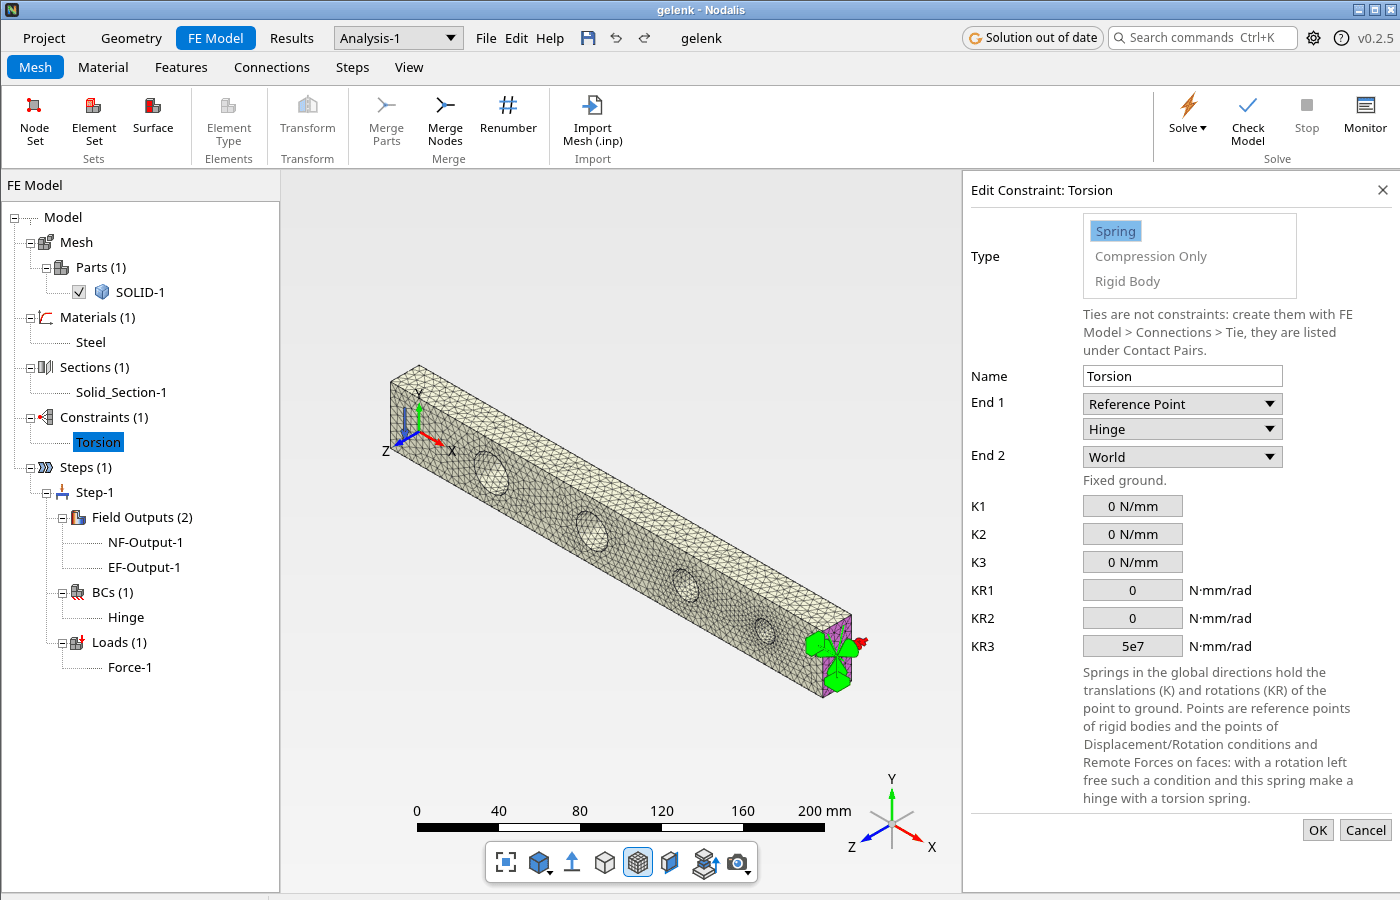
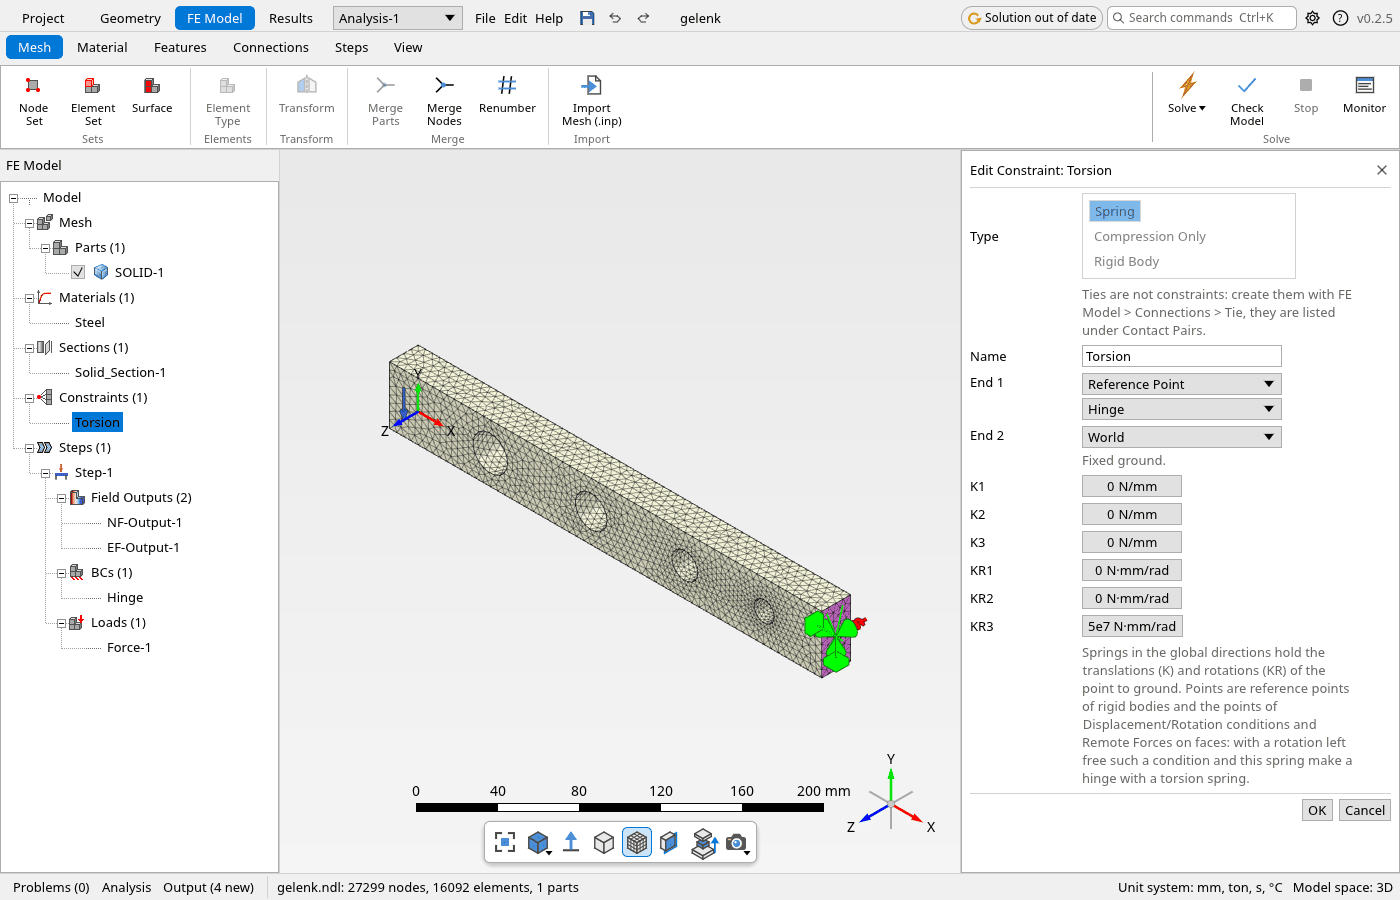
Show the unit of rotational spring stiffness inside its field
KR fields now carry N*mm/rad as a suffix like the K fields instead of a
separate label beside the field.

Claude-Session: https://claude.ai/code/session_0117wmBMUJF2H5hjMvqGdMWT

diff --git a/crates/plx-app/src/constraint_dialog.rs b/crates/plx-app/src/constraint_dialog.rs
@@ -478,19 +478,17 @@ fn spring_rows(
 
 /// Rotational stiffness about the global axes, in moment per radian.
 fn rotational_rows(ui: &mut Ui, rotational: &mut [f64; 3], units: UnitSystem, axes: &[usize]) {
-    let unit = format!("{}/rad", units.unit(Quantity::Moment));
+    let unit = format!(" {}/rad", units.unit(Quantity::Moment));
     for &axis in axes {
         let (value, label) = (&mut rotational[axis], ["KR1", "KR2", "KR3"][axis]);
         ui.label(label)
             .on_hover_text("Rotational stiffness about the global axis.");
-        ui.horizontal(|ui| {
-            ui.add(
-                numeric::without_unit(value, units, Quantity::Moment)
-                    .speed(1.0)
-                    .range(0.0..=f64::MAX),
-            );
-            ui.label(unit.as_str());
-        });
+        ui.add(
+            numeric::without_unit(value, units, Quantity::Moment)
+                .suffix(unit.as_str())
+                .speed(1.0)
+                .range(0.0..=f64::MAX),
+        );
         ui.end_row();
     }
 }
